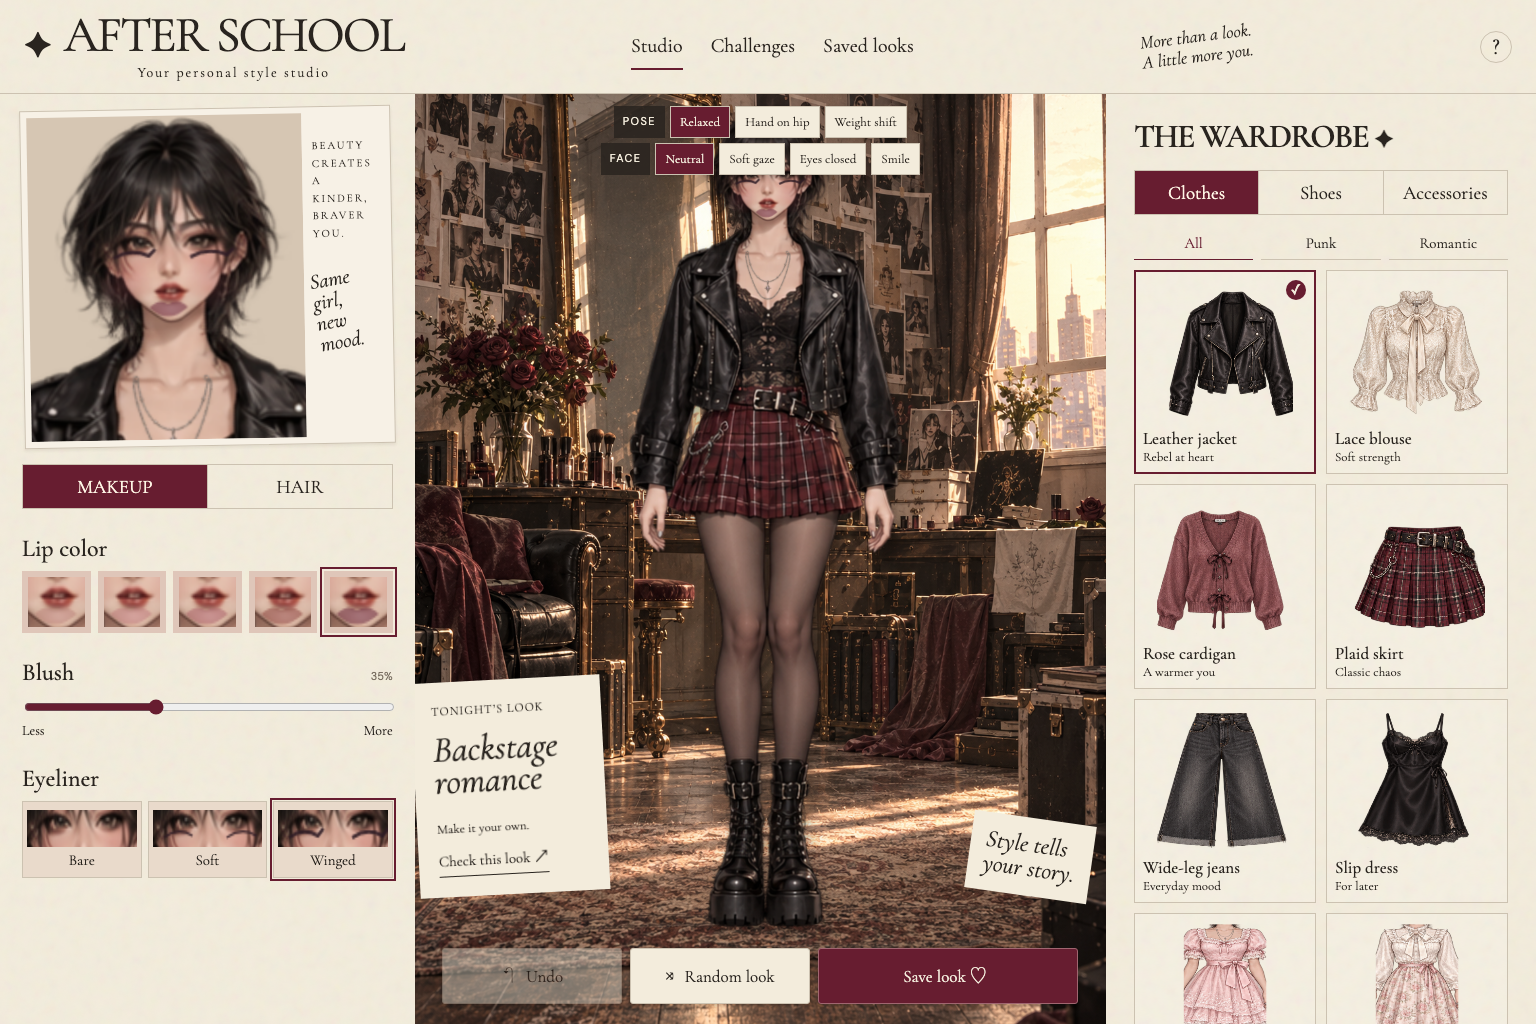
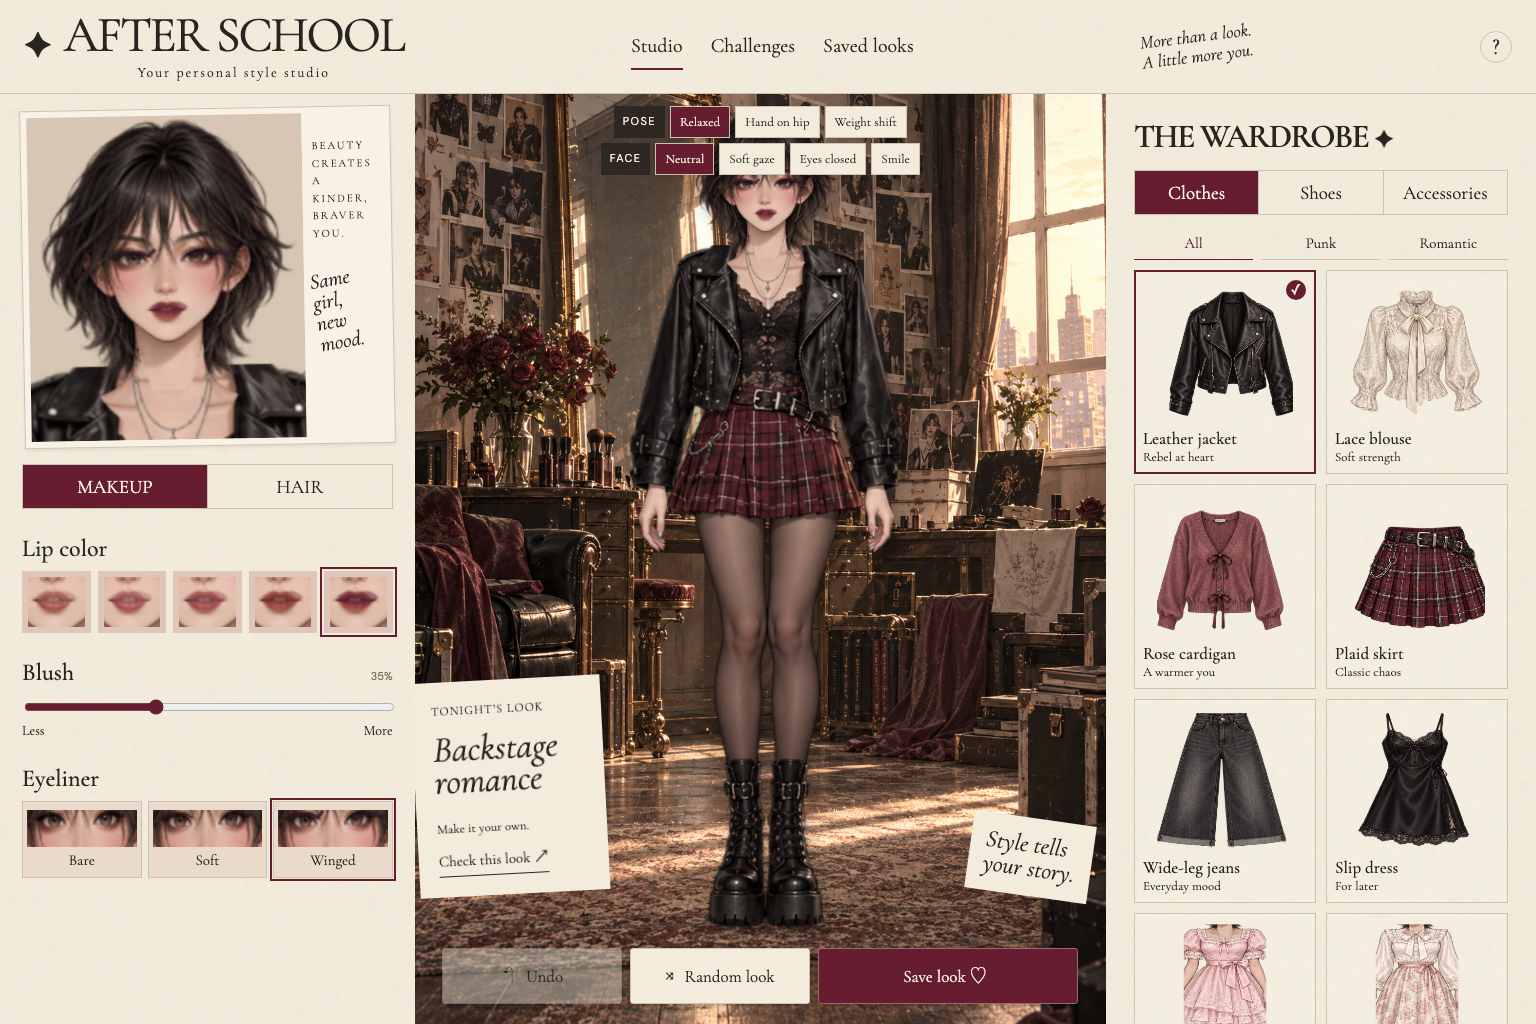
Align makeup with shared face placement

diff --git a/dist/art.js b/dist/art.js
@@ -24,7 +24,7 @@ export const hairs=['#28211e','#65372e','#864248','#b49063'];
 const clamp=n=>Math.max(0,Math.min(255,n));
 export function renderDoll(state){const c=scratch.getContext('2d',{willReadFrequently:true});c.clearRect(0,0,300,900);if(state.pose>0){const name=state.pose===1?'pose-hip':state.outfit<5?'pose-shift-punk':'pose-shift-romantic',index=state.pose===1?state.outfit:state.outfit<5?state.outfit:state.outfit-5,count=name==='pose-shift-punk'?5:name==='pose-shift-romantic'?4:9,atlas=images[name],cell=atlas.width/count,sourceWidth=state.pose===1?cell:(atlas.height-25)/3,sx=poseCenters[name][index]-sourceWidth/2;c.save();if(state.pose===1){c.beginPath();const hem=state.outfit===4?900:state.outfit===7?730:state.outfit===5?610:state.outfit===6?570:state.outfit===8?530:510;c.moveTo(40,0);c.lineTo(255,0);c.lineTo(300,180);c.lineTo(300,hem);c.lineTo(224,hem+35);c.lineTo(224,900);c.lineTo(76,900);c.lineTo(76,hem+35);c.lineTo(0,hem);c.lineTo(0,180);c.closePath();c.clip();}c.drawImage(atlas,sx,25,sourceWidth,atlas.height-25,0,0,300,900);c.restore();removePoseIslands(c);}else if(state.outfit>=6){const atlas=images.romantic,centers=[325,888,1450];c.drawImage(atlas,centers[state.outfit-6]-154,0,300,887,0,0,300,900);}else{const atlas=images.characters;const sx=12+state.outfit*295.5;c.drawImage(atlas,sx,0,Math.min(295.5,atlas.width-sx),887,0,0,300,900);}
 // Swap the head silhouette while preserving each outfit's collar and shoulders.
-if(state.hairstyle>0||state.pose>0){
+{
   c.clearRect(0,0,300,145);
   c.save();c.beginPath();c.moveTo(137,145);c.lineTo(177,145);c.lineTo(168,173);c.lineTo(146,173);c.closePath();c.clip();c.clearRect(130,140,55,40);c.restore();
   c.clearRect(78,145,48,13); c.clearRect(190,145,48,13);
@@ -34,7 +34,7 @@ if(state.hairstyle>0||state.pose>0){
   c.restore();
 }
 // Local masks tint only existing illustrated hair/boot pixels; preserve their ink and texture.
-if(state.hair||(state.shoes&&state.outfit<6)){const frame=c.getImageData(0,0,300,900),p=frame.data;const hairTints=[[0,0,0],[30,10,2],[53,7,18],[86,58,24]],shoeTints=[[0,0,0],[58,6,15],[110,97,75]];for(let y=0;y<900;y++)for(let x=0;x<300;x++){const i=(y*300+x)*4;if(p[i+3]<30)continue;const light=(p[i]+p[i+1]+p[i+2])/3;const facialFeature=(y>83&&y<104&&x>117&&x<196)||(y>110&&y<149&&x>120&&x<193);const neutralDark=light<94&&Math.max(p[i],p[i+1],p[i+2])-Math.min(p[i],p[i+1],p[i+2])<35;const isHair=y<(state.hairstyle>0||state.pose>0?225:166)&&x>70&&x<240&&!facialFeature&&neutralDark;const isBoot=state.outfit<6&&y>(state.outfit===4?817:700)&&x>91&&x<215;const tint=isHair?hairTints[state.hair]:isBoot?shoeTints[state.shoes]:null;if(tint){const fade=isHair?Math.min(1,(100-light)/24):Math.min(1,Math.max(0,(y-(state.outfit===4?817:700))/10));const amount=(.45+light/150)*fade;for(let k=0;k<3;k++)p[i+k]=clamp(p[i+k]+tint[k]*amount);}}c.putImageData(frame,0,0);}
+if(state.hair||(state.shoes&&state.outfit<6)){const frame=c.getImageData(0,0,300,900),p=frame.data;const hairTints=[[0,0,0],[30,10,2],[53,7,18],[86,58,24]],shoeTints=[[0,0,0],[58,6,15],[110,97,75]];for(let y=0;y<900;y++)for(let x=0;x<300;x++){const i=(y*300+x)*4;if(p[i+3]<30)continue;const light=(p[i]+p[i+1]+p[i+2])/3;const facialFeature=(y>83&&y<104&&x>117&&x<196)||(y>110&&y<149&&x>120&&x<193);const neutralDark=light<94&&Math.max(p[i],p[i+1],p[i+2])-Math.min(p[i],p[i+1],p[i+2])<35;const isHair=y<225&&x>70&&x<240&&!facialFeature&&neutralDark;const isBoot=state.outfit<6&&y>(state.outfit===4?817:700)&&x>91&&x<215;const tint=isHair?hairTints[state.hair]:isBoot?shoeTints[state.shoes]:null;if(tint){const fade=isHair?Math.min(1,(100-light)/24):Math.min(1,Math.max(0,(y-(state.outfit===4?817:700))/10));const amount=(.45+light/150)*fade;for(let k=0;k<3;k++)p[i+k]=clamp(p[i+k]+tint[k]*amount);}}c.putImageData(frame,0,0);}
 const faceFrame=state.expression??state.faceFrame??0;
 if(faceFrame>0){
 const face=images.expressions,cell=face.width/4;
@@ -66,6 +66,6 @@ export function drawViews(state,frame={}){
 export function drawItem(canvas,category,index,state){canvas.width=300;canvas.height=300;const c=canvas.getContext('2d');c.clearRect(0,0,300,300);if(category==='clothes'&&index>=6){const doll=renderDoll({...state,outfit:index,pose:0});c.drawImage(doll,45,145,225,565,65,5,170,285);}else if(category==='clothes'){const boxes=[[0,0,420,410],[436,0,391,405],[838,0,415,410],[0,409,424,420],[451,417,373,481],[839,409,415,490]];const [x,y,w,h]=boxes[index];c.drawImage(images.wardrobe,x,y,w,h,10,10,280,280);}else if(category==='accessories'){if(index<0){c.font='italic 32px Georgia';c.textAlign='center';c.fillStyle='#786d60';c.fillText('Just you.',150,150);}else{if(index<3){const boxes=[[35,877,375,336],[440,905,385,276],[866,886,368,345]];const [x,y,w,h]=boxes[index];c.drawImage(images.wardrobe,x,y,w,h,15,25,270,250);}else{const j=images.jewelry,size=j.width/3;c.drawImage(j,(index-3)*size,0,size,size,10,10,280,280);}}}else if(category==='earrings'||category==='bracelets'){if(index<0){c.font='italic 32px Georgia';c.textAlign='center';c.fillStyle='#786d60';c.fillText('Less is more.',150,150);}else{const j=images.jewelry,size=j.width/3;c.drawImage(j,index*size,(category==='earrings'?1:2)*size,size,size,10,10,280,280);}}else{const doll=renderDoll({...state,outfit:0,shoes:index});c.drawImage(doll,78,710,144,180,30,0,240,300);}}
 export function exportLook(state){const canvas=document.createElement('canvas');canvas.width=900;canvas.height=1200;const c=canvas.getContext('2d');c.drawImage(images['dressing-room'],0,0,900,1200);c.drawImage(renderDoll(state),267,40,366,1098);c.fillStyle='#f3ecdc';c.fillRect(0,1110,900,90);c.fillStyle='#29241f';c.font='40px Georgia';c.textAlign='center';c.fillText('AFTER SCHOOL',450,1164);return canvas;}
 
-export function drawCosmetic(canvas,state,kind,index){canvas.width=160;canvas.height=100;const c=canvas.getContext('2d');c.fillStyle='#dfc6b9';c.fillRect(0,0,160,100);const doll=renderDoll({...state,[kind==='lip'?'lip':'liner']:index});if(kind==='lip')c.drawImage(doll,135,103,44,27,0,0,160,100);else c.drawImage(doll,116,69,80,38,0,0,160,100);}
+export function drawCosmetic(canvas,state,kind,index){canvas.width=160;canvas.height=100;const c=canvas.getContext('2d');c.fillStyle='#dfc6b9';c.fillRect(0,0,160,100);const doll=renderDoll({...state,[kind==='lip'?'lip':'liner']:index});if(kind==='lip')c.drawImage(doll,135,112,44,27,0,0,160,100);else c.drawImage(doll,116,79,80,38,0,0,160,100);}
 
 export function drawHair(canvas,state,index){canvas.width=150;canvas.height=190;const c=canvas.getContext('2d');c.fillStyle='#dfd0be';c.fillRect(0,0,150,190);c.drawImage(renderDoll({...state,hairstyle:index}),76,0,167,213,0,0,150,190);}

diff --git a/progress.md b/progress.md
@@ -32,3 +32,5 @@ Replaced the procedural Weight shift entirely with newly generated full-figure a
 Fixed oversized-head appearance in Weight shift: the new sprite sheets used arbitrary source widths that compressed bodies horizontally, especially the romantic sheet. Source width now derives from source height and the canvas aspect ratio, preserving equal horizontal and vertical scale. Visually checked all 27 outfit/pose combinations including the floral dress.
 
 Fixed the clipped elbow in the hand-on-hip pose by widening its torso/arm crop to the full sprite width. Verified all outfit/pose combinations and the ivory blouse at 390x844 with no page errors; the complete bent sleeve is visible.
+
+Fixed makeup falling below the default face: relaxed bob had bypassed the shared head composition while makeup used its newer coordinates. Every hairstyle/pose now uses the same head placement, and cosmetic thumbnail crops follow that placement. Refreshed all README screenshots from the corrected build. Inspected the default full-figure render and studio close-up; standard runner passed.
